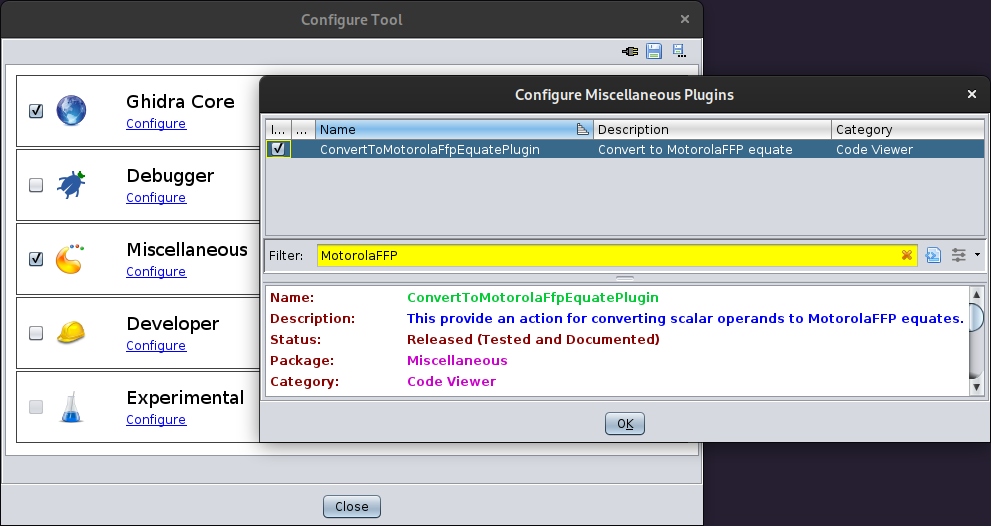
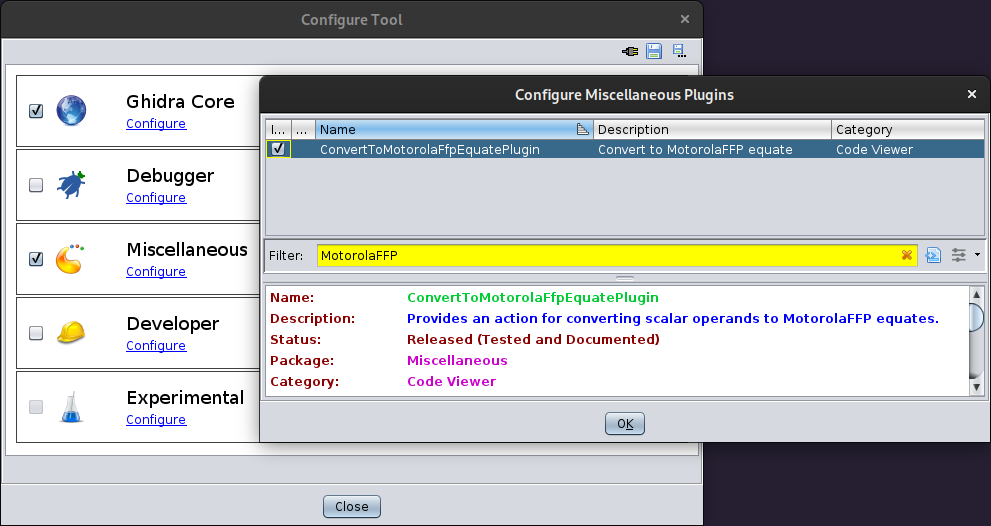
fix typo/grammar

Changed region(s): [[0.3935, 0.5779, 0.9687, 0.6388]]

diff --git a/src/main/java/nicode/app/plugin/core/equate/ConvertToMotorolaFfpEquatePlugin.java b/src/main/java/nicode/app/plugin/core/equate/ConvertToMotorolaFfpEquatePlugin.java
@@ -29,7 +29,7 @@ import ghidra.framework.plugintool.util.PluginStatus;
 	packageName = MiscellaneousPluginPackage.NAME,
 	category = PluginCategoryNames.CODE_VIEWER,
 	shortDescription = "Convert to MotorolaFFP equate",
-	description = "This provide an action for converting scalar operands to MotorolaFFP equates.",
+	description = "Provides an action for converting scalar operands to MotorolaFFP equates.",
 	servicesRequired = { CodeViewerService.class }
 )
 //@formatter:on

diff --git a/README.md b/README.md
@@ -1,4 +1,4 @@
-# Motorola Fast Ploating Point (MFFP) Ghidra extension
+# Motorola Fast Floating Point (MFFP) Ghidra extension
 
 The `MotorolaFFP` Ghidra extension adds a new built-in data type.
 It also provides a plug-in to convert scalar operands to equates.
